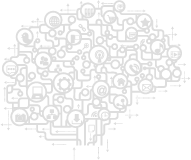
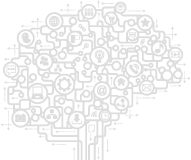
Fix social brain image to clearer version.

Changed region(s): [[0.0, 0.0, 0.9686, 1.0]]

diff --git a/index.html b/index.html
@@ -89,13 +89,13 @@ window.onload = function() {
   var context = canvas.getContext("2d");
   // Starting position for lines from the brain. Use half points
   // to line up with screen pixel positions.
-  startX = 126.5;
-  startY = 145.5;
+  startX = 127.5;
+  startY = 156.5;
   context.lineWidth = 1;
   context.strokeStyle = '#dddddd';
   // draw the lines from the brain to the blog posts
   tmp = document.getElementsByClassName('blog-post');
-  xOffsets = [25, 17, 12]; // x offset of starting points on brain
+  xOffsets = [25, 17, 11]; // x offset of starting points on brain
   for (var i=0; i<tmp.length; i++) {
     drawBrainLine(context, startX+xOffsets[i], startY, canvas.width, tmp[i].offsetTop+tmp[i].offsetParent.offsetTop+12);
   }
@@ -159,8 +159,8 @@ function twitterItems(items) {
   // draw lines from the brain to the tweets
   var canvas = document.getElementById("brain");
   var context = canvas.getContext("2d");
-  startX = 126.5;
-  startY = 145.5;
+  startX = 127.5;
+  startY = 156.5;
   context.lineWidth = 1;
   context.strokeStyle = '#eeeeee';
   // use a gradient for the lines so they fade in from the tweet
@@ -169,7 +169,7 @@ function twitterItems(items) {
   gradLeft.addColorStop(1, '#eeeeee');
   context.strokeStyle = gradLeft;
   tmp = document.getElementsByClassName('tweet-underline');
-  xOffsets = [0, 1, 4, 5, 8, 9];
+  xOffsets = [0, 1, 3, 4, 8, 9];
   for (var i=0; i<tmp.length; i++) {
     drawBrainLine(context, startX+xOffsets[i], startY, 0, tmp[i].offsetTop+tmp[i].offsetParent.offsetTop);
   }
